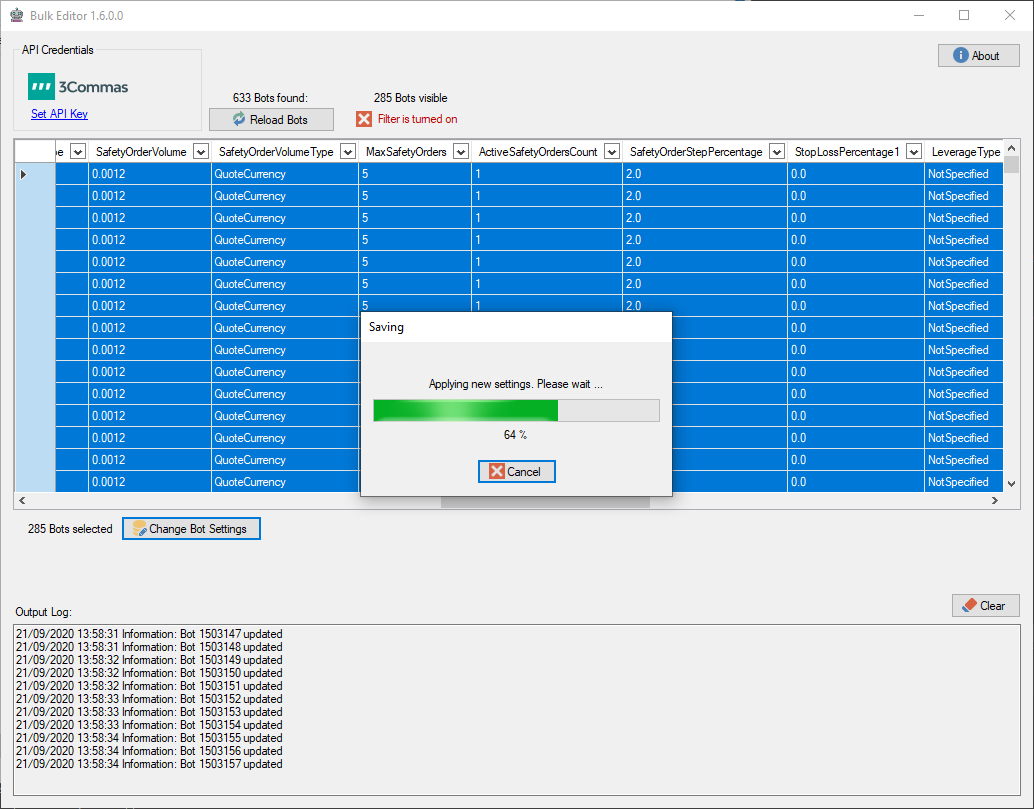
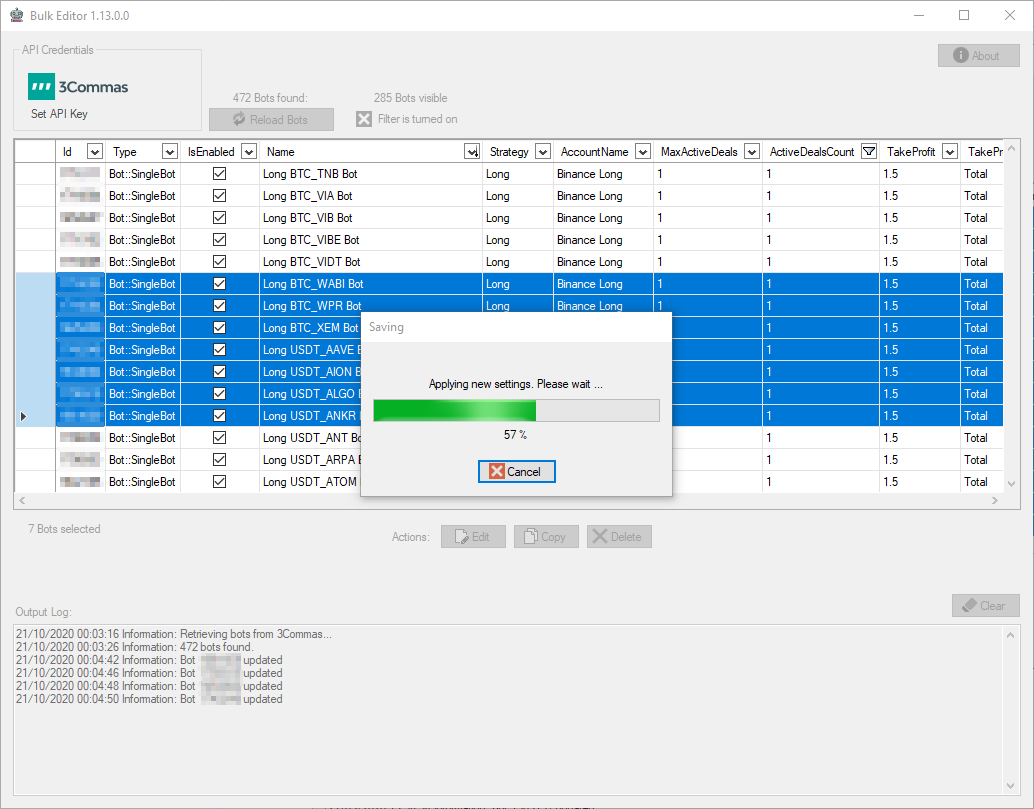
updated readme and screenshots

diff --git a/README.md b/README.md
@@ -18,7 +18,9 @@ Also if you think something is broken or have any questions, please open an [Iss
 
 - View all of your simple 3Commas bots
 - Filtering, sorting, etc
-- Bulk Edit of selected bots
+- Bulk Edit
+- Bulk Copy
+- Bulk Delete
 
 ## Screenshots
 
